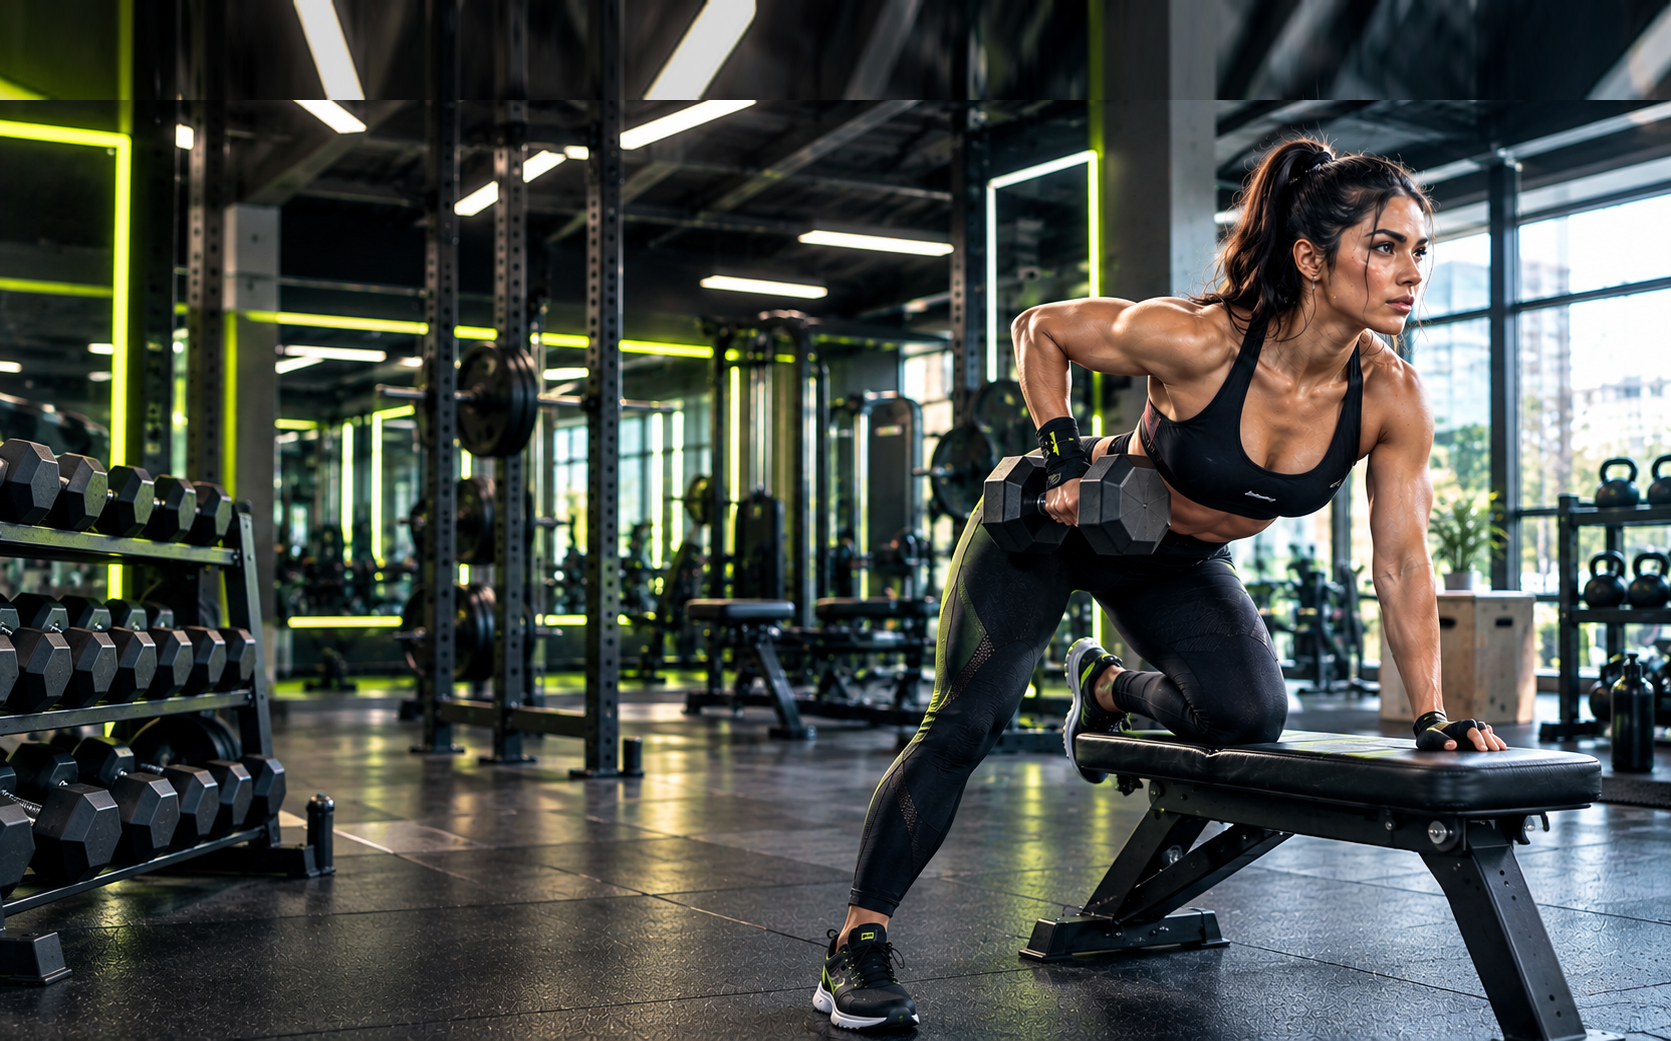
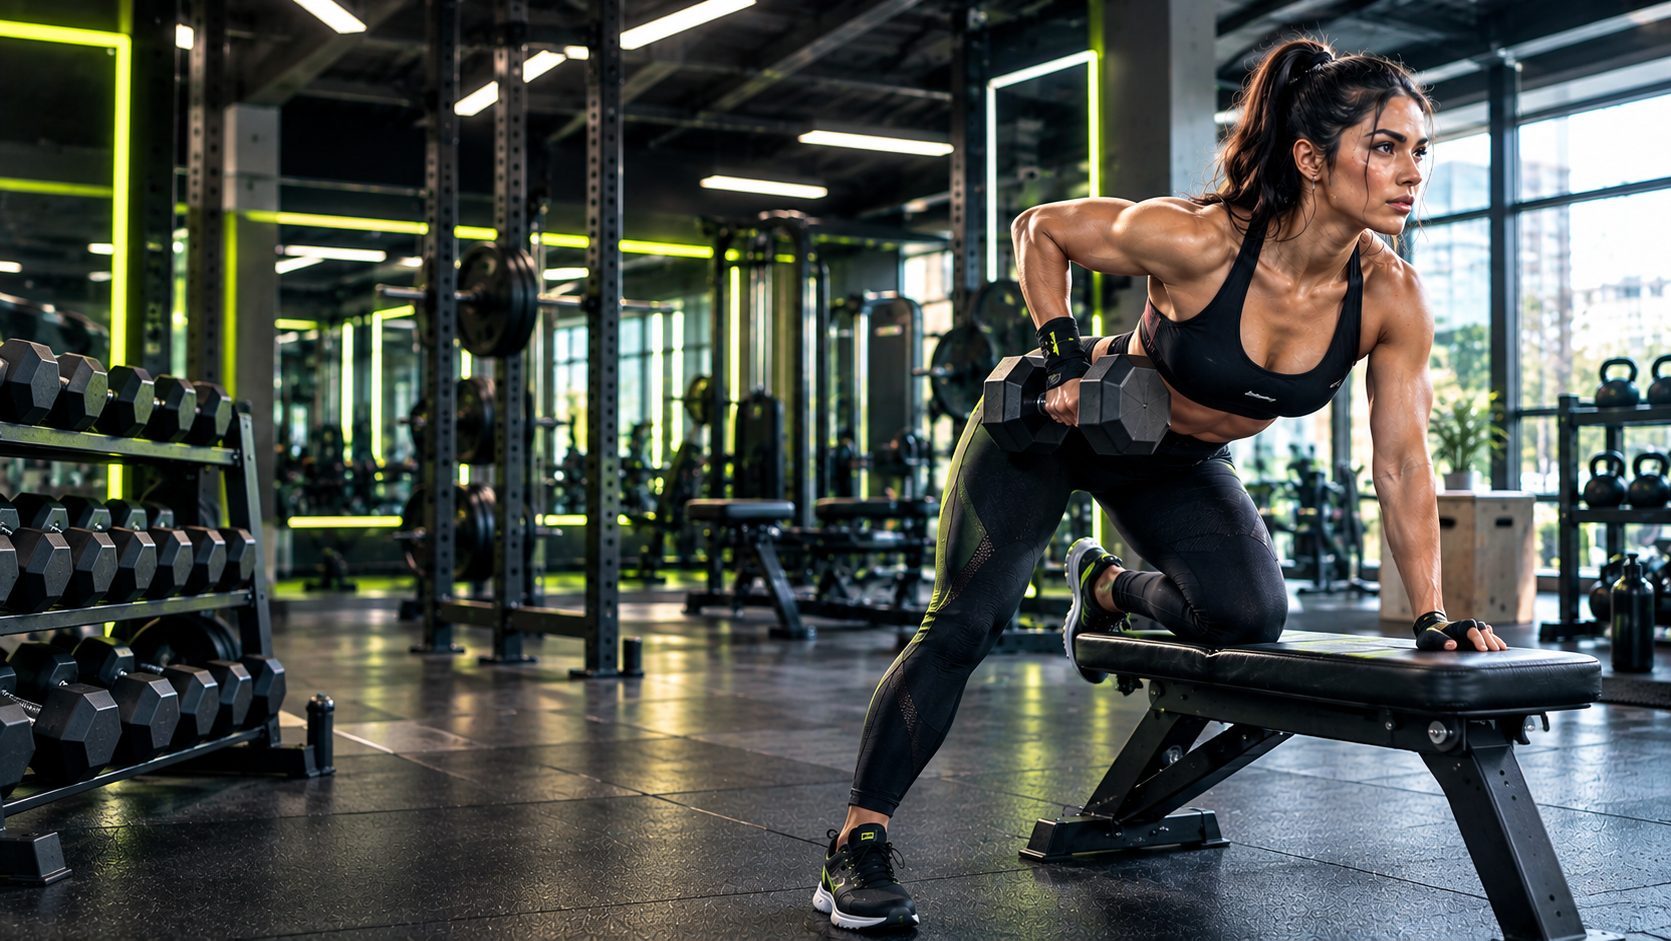
fix: centrar verticalmente textos del hero y calibrar espacio superior

diff --git a/src/components/categories/SportswearPage.tsx b/src/components/categories/SportswearPage.tsx
@@ -65,13 +65,13 @@ export const SportswearPage: React.FC = () => {
     <div className="min-h-screen bg-background text-white pt-24 pb-32 animate-fadeIn">
       
       {/* 01 // SPORTSWEAR HERO BANNER */}
-      <section className="relative h-[56vh] sm:h-[66vh] min-h-[500px] max-h-[640px] w-full overflow-hidden flex items-end pb-10 sm:pb-14 bg-[#070707]">
+      <section className="relative h-[52vh] sm:h-[60vh] min-h-[460px] max-h-[580px] w-full overflow-hidden flex items-center pt-8 pb-6 sm:pt-10 sm:pb-8 bg-[#070707]">
         {/* Foto de fondo completa del gimnasio */}
         <div className="absolute inset-0 w-full h-full pointer-events-none">
           <img
             src="./images/hero/hero-sportswear.png"
             alt="ANISHA Ropa Deportiva"
-            className="w-full h-full object-cover object-[82%_top] sm:object-[80%_top] md:object-[78%_top] filter brightness-[1.02] contrast-[1.04]"
+            className="w-full h-full object-cover object-[82%_5%] sm:object-[80%_4%] md:object-[78%_4%] filter brightness-[1.02] contrast-[1.04]"
           />
         </div>
 
@@ -80,7 +80,7 @@ export const SportswearPage: React.FC = () => {
         {/* Refuerzo sutil inferior en móviles para legibilidad */}
         <div className="absolute inset-0 bg-gradient-to-t from-[#070707]/80 via-transparent to-transparent md:hidden pointer-events-none" />
         {/* Sutil fundido inferior con el fondo */}
-        <div className="absolute inset-x-0 bottom-0 h-16 bg-gradient-to-t from-background to-transparent pointer-events-none" />
+        <div className="absolute inset-x-0 bottom-0 h-14 bg-gradient-to-t from-background to-transparent pointer-events-none" />
         
         <div className="relative z-10 max-w-7xl mx-auto px-4 sm:px-6 lg:px-8 w-full space-y-3 sm:space-y-4">
           <div className="inline-flex items-center space-x-2 text-xs font-mono font-bold tracking-widest text-volt uppercase px-3 py-1 rounded-full bg-white/10 backdrop-blur-md border border-white/20">
